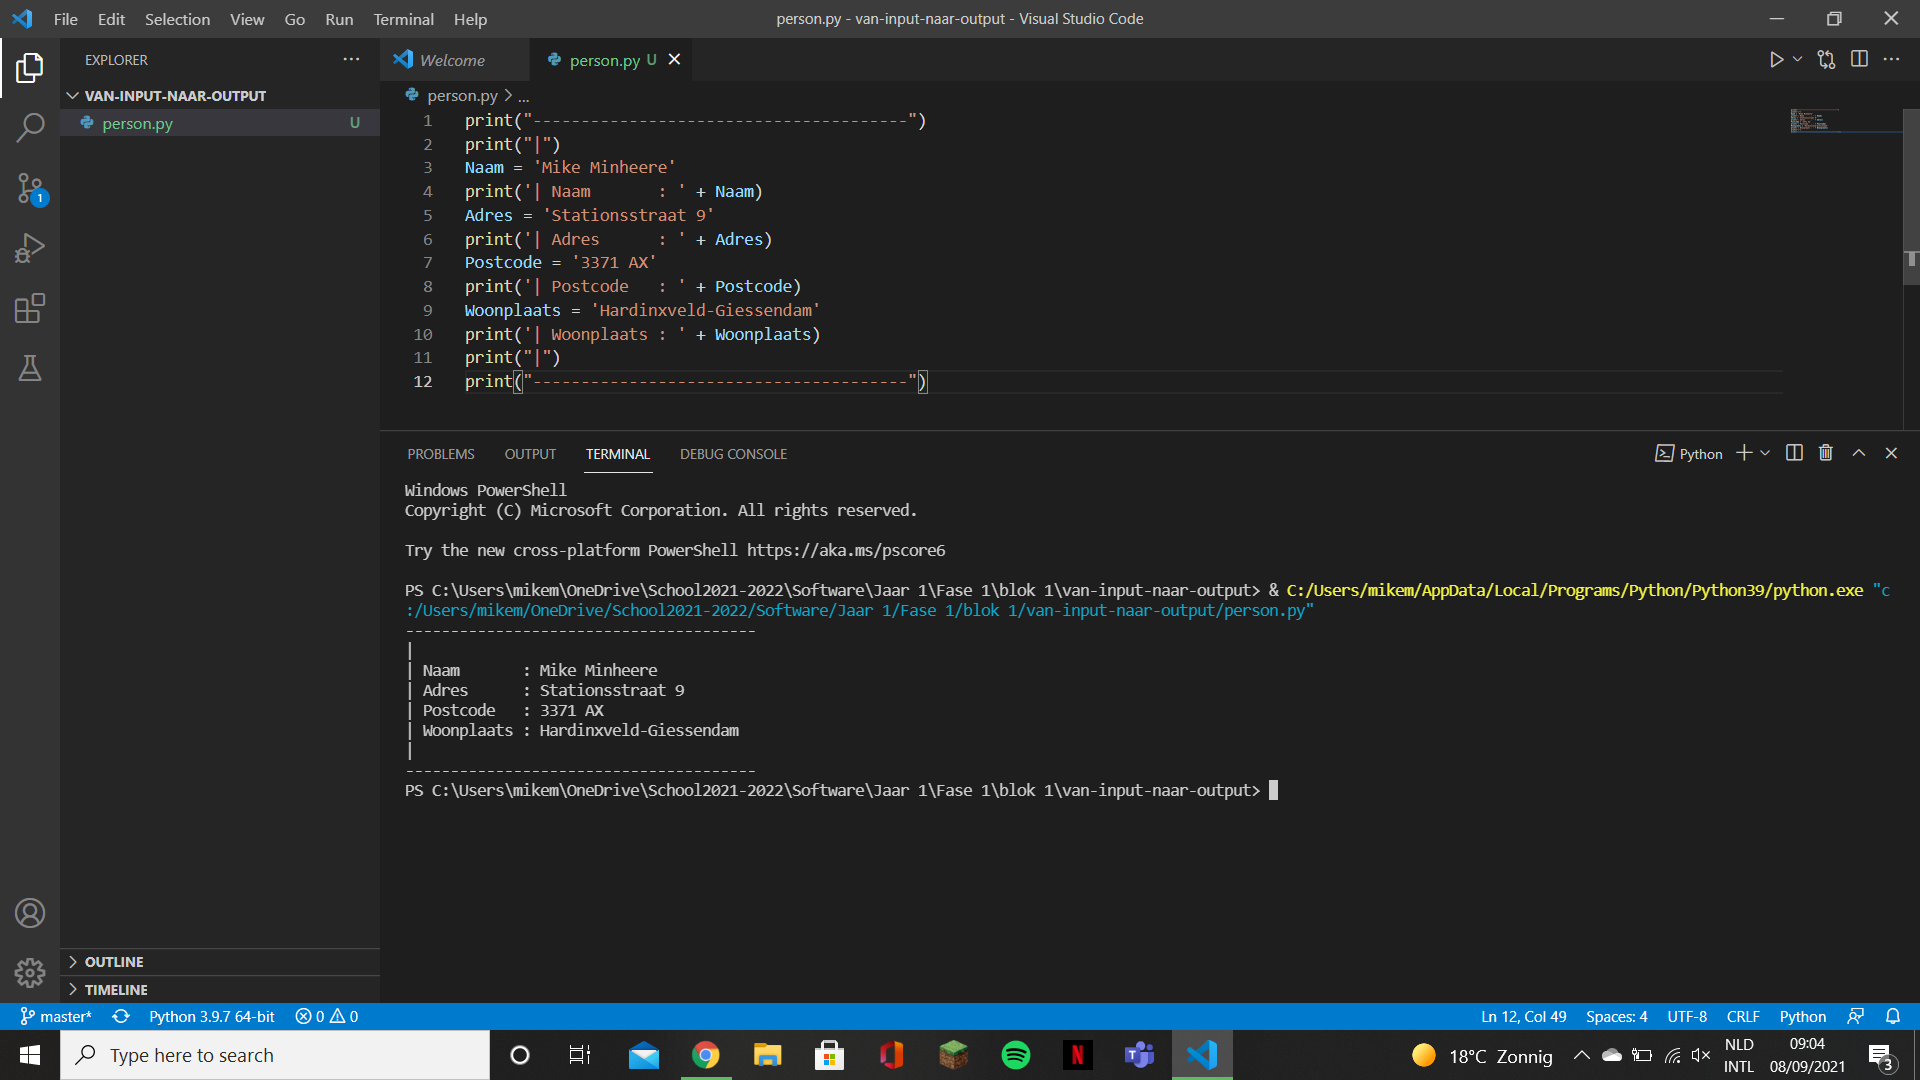
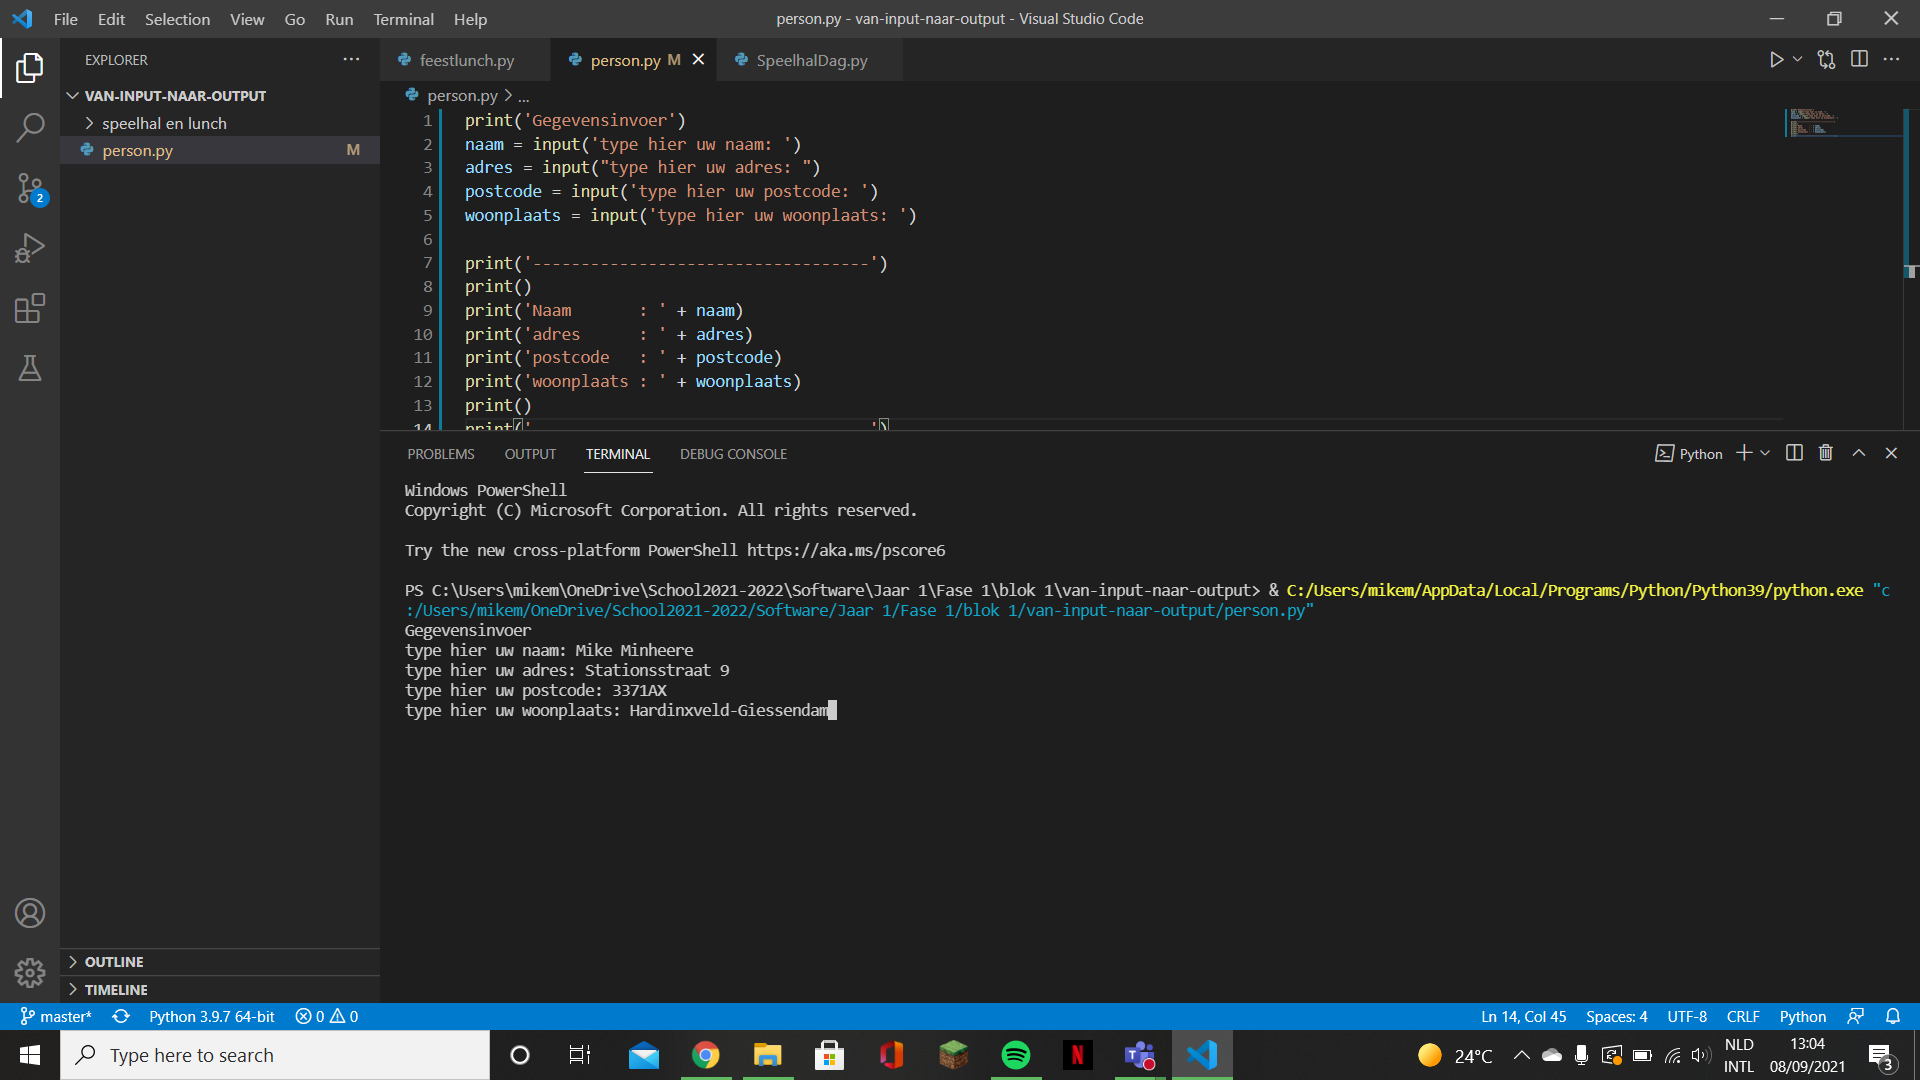
person.py update

diff --git a/person.py b/person.py
@@ -1,12 +1,14 @@
-print("---------------------------------------")
-print("|")
-Naam = 'Mike Minheere'
-print('| Naam       : ' + Naam)
-Adres = 'Stationsstraat 9'
-print('| Adres      : ' + Adres)
-Postcode = '3371 AX'
-print('| Postcode   : ' + Postcode)
-Woonplaats = 'Hardinxveld-Giessendam'
-print('| Woonplaats : ' + Woonplaats)
-print("|")
-print("---------------------------------------")
+print('Gegevensinvoer')
+naam = input('type hier uw naam: ')
+adres = input("type hier uw adres: ")
+postcode = input('type hier uw postcode: ')
+woonplaats = input('type hier uw woonplaats: ')
+
+print('-----------------------------------')
+print()
+print('Naam       : ' + naam)
+print('adres      : ' + adres)
+print('postcode   : ' + postcode)
+print('woonplaats : ' + woonplaats)
+print()
+print('-----------------------------------')
